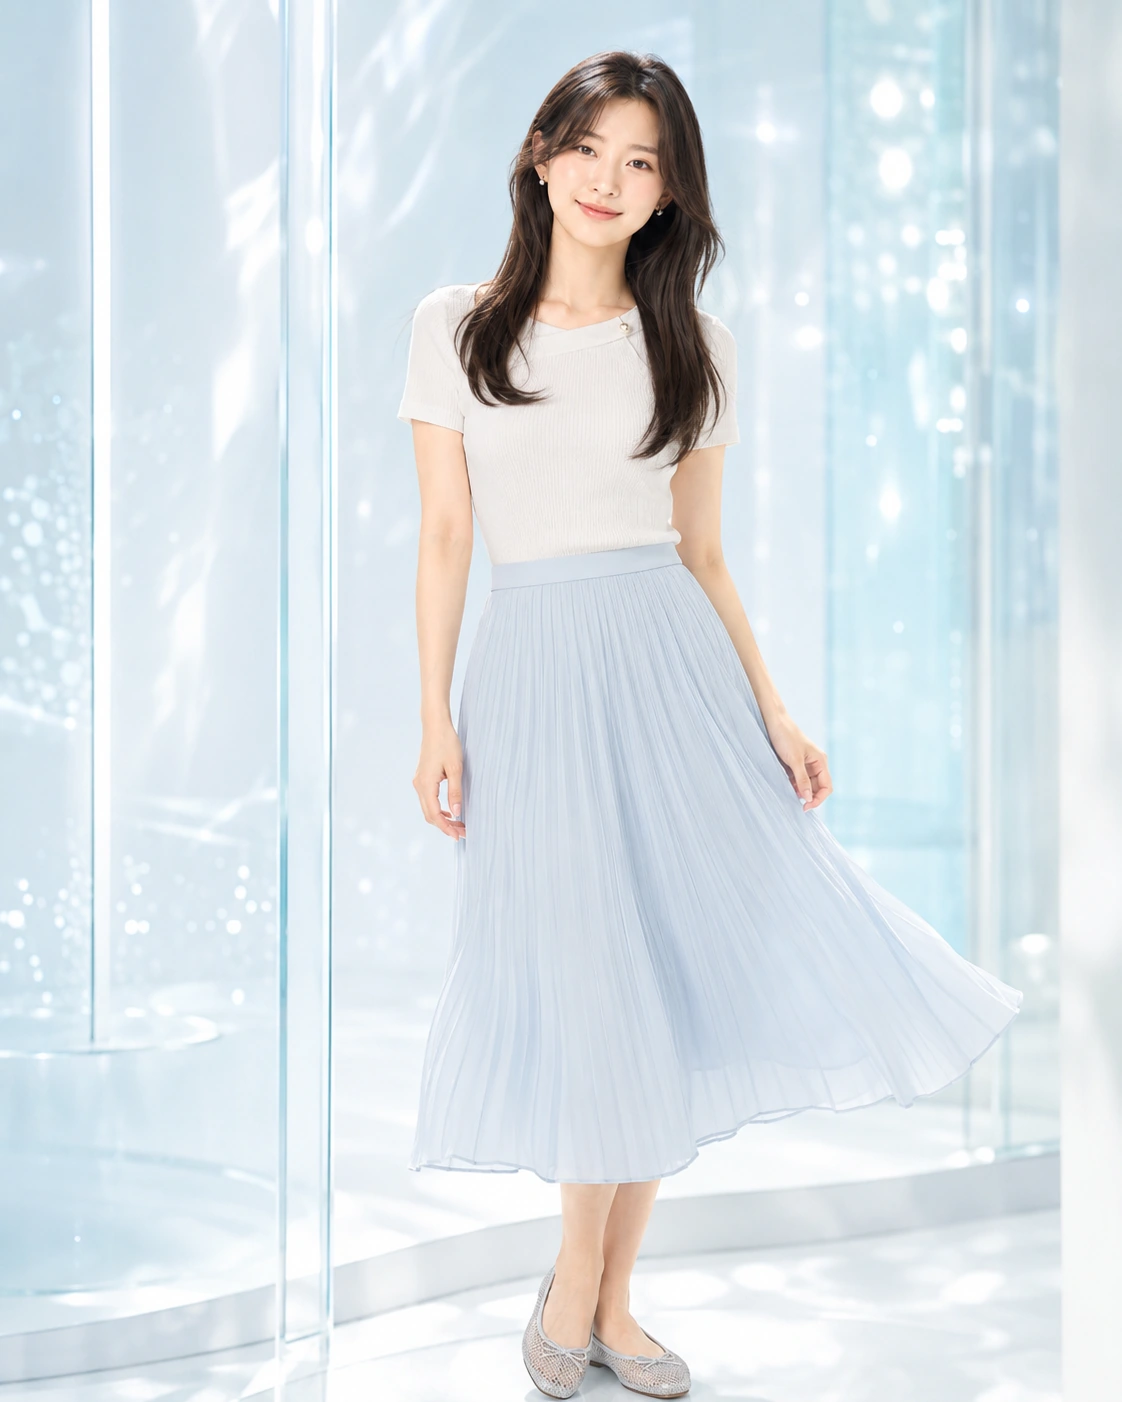
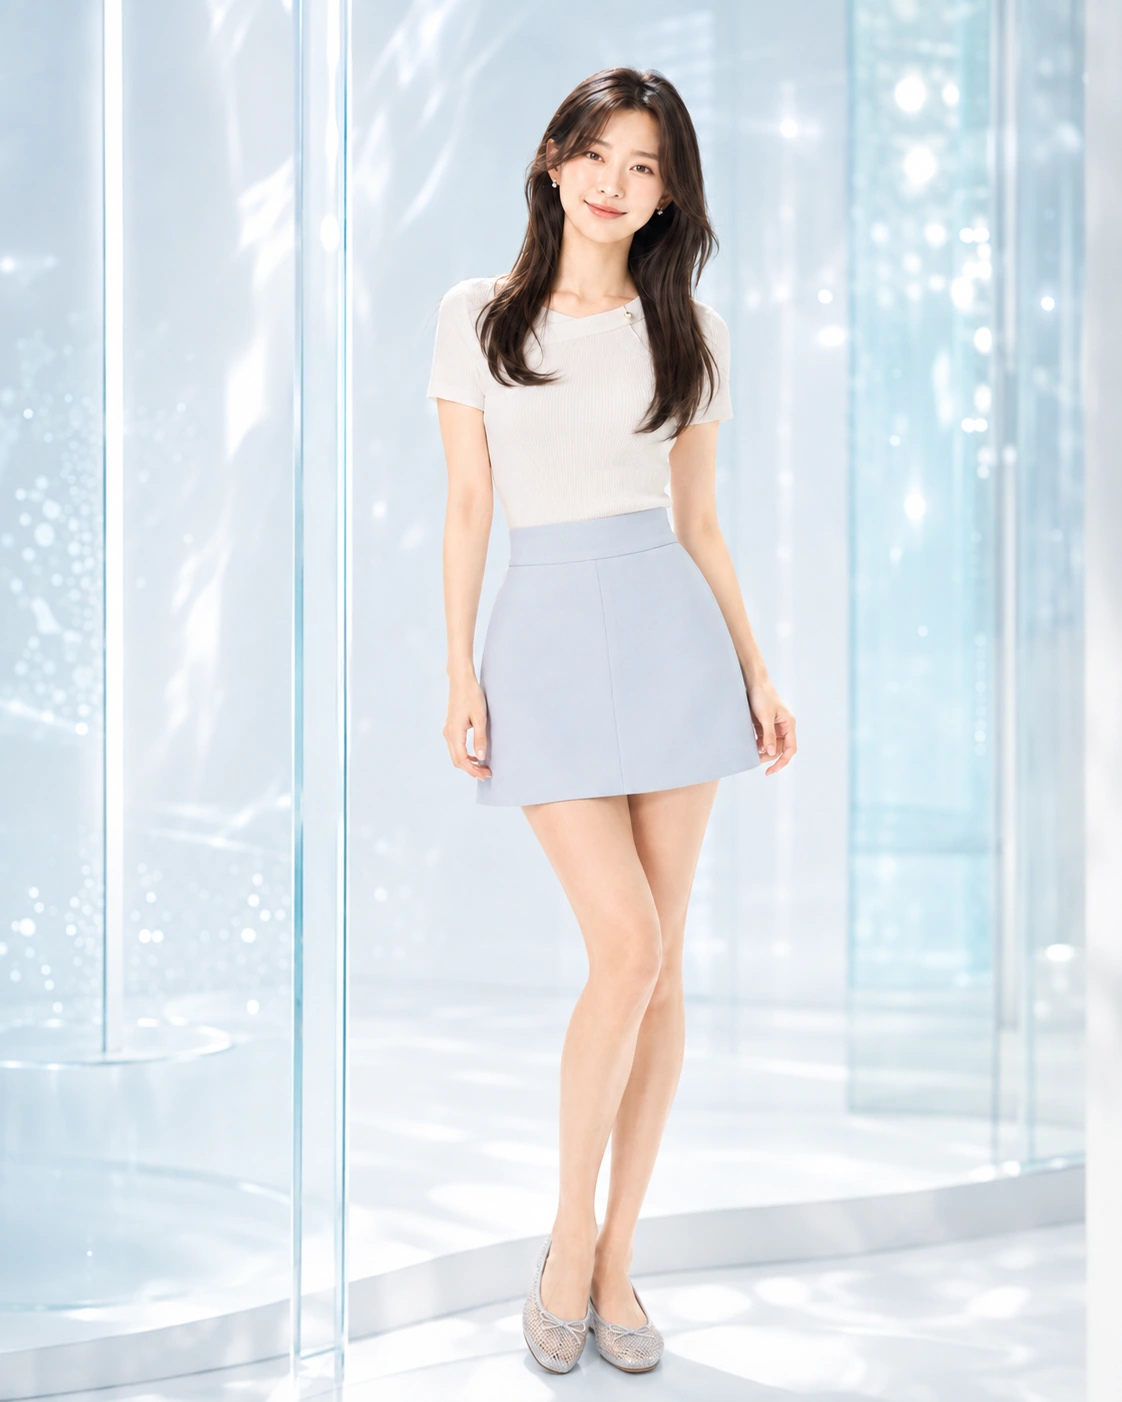
feat: update aqua casting to modern mini-skirt looks

diff --git a/src/data/aquaLotionVideoStudio.ts b/src/data/aquaLotionVideoStudio.ts
@@ -79,9 +79,9 @@ export const campaignModels: CampaignModel[] = [
     age: 25, heightCm: 167, weightKg: 50, bodyType: '자연스럽고 균형 잡힌 슬림 체형',
     job: '뷰티 브랜드 룩북과 라이프스타일 콘텐츠를 병행하는 가상 모델', personality: '맑고 차분하며 편안한 미소가 자연스러움',
     voice: '모델은 무언 연기 · 최종본은 실제 한국인 여성 나레이션', hook: '가볍고 깨끗한 아침 수분 루틴을 밝은 표정과 손동작으로 보여줌',
-    styling: '펄화이트 비대칭 디테일 니트 · 아이스블루 플리츠 미디스커트 · 실버 메시 발레 플랫',
-    strengths: ['20대 성인으로 보이는 맑고 환한 얼굴', '아이스블루 유리광의 수분 화장품 캠페인 적합', '손·발·전신 비율 안정'],
-    risks: ['스튜디오 피부 보정을 실제 UGC 수준으로 낮춰야 함', '영상에서는 유리광 배경보다 실제 욕실 채광으로 자연스럽게 전환해야 함'],
+    styling: '펄화이트 비대칭 디테일 니트 · 아이스블루 구조적 A라인 미니스커트 · 실버 메시 발레 플랫',
+    strengths: ['20대 성인으로 보이는 맑고 환한 얼굴', '교복 느낌 없는 성인용 미니스커트 스타일', '손·다리·무릎·신발 비율 안정'],
+    risks: ['스튜디오 피부 보정을 실제 UGC 수준으로 낮춰야 함', '영상에서는 치마 길이와 내장 안감 형태를 시작 프레임에 고정해야 함'],
     image: '/marketing/aqua-lotion-video-studio/models/casting-2026/a-seo-yuna.webp',
   },
   {
@@ -89,9 +89,9 @@ export const campaignModels: CampaignModel[] = [
     age: 27, heightCm: 169, weightKg: 51, bodyType: '길고 자연스러운 슬림 체형',
     job: '패션·뷰티 에디토리얼을 병행하는 가상 모델', personality: '자신감 있고 세련됐지만 과하게 포즈를 잡지 않음',
     voice: '모델은 무언 연기 · 최종본은 실제 한국인 여성 나레이션', hook: '성숙한 저녁 수분 루틴을 시선과 절제된 손동작으로 보여줌',
-    styling: '미드나이트 네이비 원숄더 니트 · 딥체리 바이어스컷 미디스커트 · 버건디 키튼힐 슬링백',
-    strengths: ['밝고 환한 프리미엄 뷰티 얼굴', '로지 프리즘 조명과 성숙하고 세련된 분위기', '목선·헤어·유동적인 치마 실루엣의 광고 주목도'],
-    risks: ['조명과 포즈가 과해지면 생활 UGC보다 에디토리얼처럼 보일 수 있음', '원숄더 라인은 영상 생성에서 의상 형태를 고정해야 함'],
+    styling: '미드나이트 네이비 원숄더 니트 · 딥체리 비대칭 드레이프 미니스커트 · 버건디 키튼힐 슬링백',
+    strengths: ['밝고 환한 프리미엄 뷰티 얼굴', '과도한 노출 없는 성숙한 미니스커트 스타일', '손·다리·무릎·신발 비율 안정'],
+    risks: ['조명과 포즈가 과해지면 생활 UGC보다 에디토리얼처럼 보일 수 있음', '영상 생성에서 원숄더와 비대칭 치마 형태를 시작 프레임에 고정해야 함'],
     image: '/marketing/aqua-lotion-video-studio/models/casting-2026/b-min-chaerin.webp',
   },
   {
